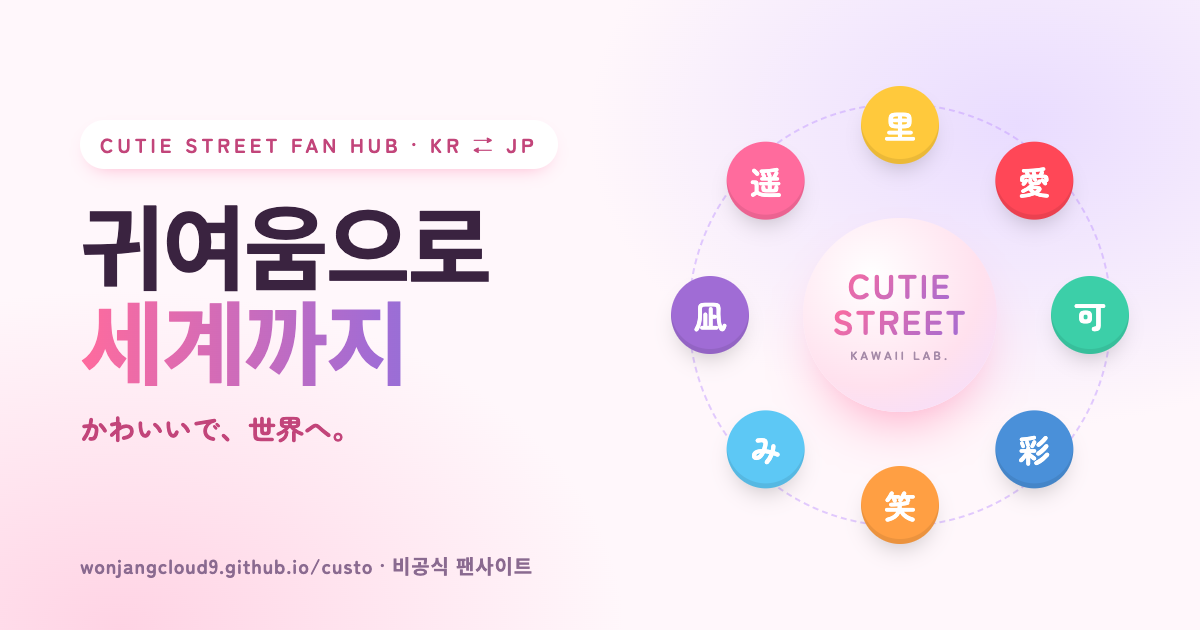
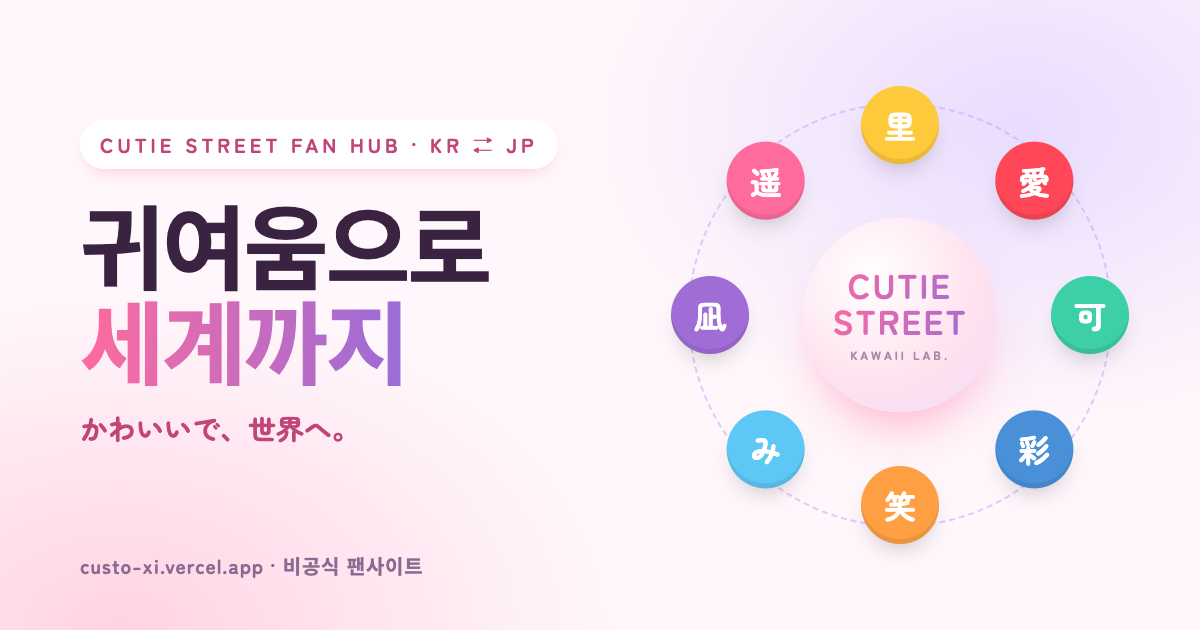
feat(hosting): move to Vercel (custo-xi.vercel.app) — root base with clean URLs, robots.txt with the sitemap, share card on the new address, GitHub Pages reduced to a page that forwards old /custo/ links
- config.ts: single mode; address from the Vercel project domain
- gh-pages-redirect/: index + 404 keep path, query and hash; sw.js retires the old offline worker
- deploy.yml now only republishes that folder
- README, loop scripts and preview.sh use the root base

Changed region(s): [[0.0617, 0.8746, 0.4625, 0.9349]]

diff --git a/docs/.vitepress/config.ts b/docs/.vitepress/config.ts
@@ -4,14 +4,11 @@ import { join } from 'node:path'
 import { members } from './data/members'
 import { songs } from './data/songs'
 
-// Hosting: GitHub Pages serves this repo under /custo/. On Vercel (which sets VERCEL=1 while it builds) the site sits
-// at the domain root, links drop their .html, and Vercel Web Analytics is switched on (theme/index.ts).
-// The address comes from the project's production domain; set SITE_HOST in Vercel to pin another one.
-const ON_VERCEL = !!process.env.VERCEL
-const BASE = ON_VERCEL ? '/' : '/custo/'
-const SITE = ON_VERCEL
-  ? `https://${process.env.SITE_HOST || process.env.VERCEL_PROJECT_PRODUCTION_URL || process.env.VERCEL_URL}/`
-  : 'https://wonjangcloud9.github.io/custo/'
+// Hosting: Vercel, at the domain root (moved from GitHub Pages' /custo/ on 2026-11-22 — gh-pages-redirect/ forwards
+// old links). The address is the project's production domain, which Vercel provides while it builds; SITE_HOST pins
+// another one; the last value is for builds made anywhere else. vercel.json holds the rest (clean URLs, caching).
+const ON_VERCEL = !!process.env.VERCEL // Web Analytics only exists there (theme/index.ts)
+const SITE = `https://${process.env.SITE_HOST || process.env.VERCEL_PROJECT_PRODUCTION_URL || 'custo-xi.vercel.app'}/`
 
 // Structured data (schema.org JSON-LD) — only facts already verified in data/members.ts and the official links.
 const OFFICIAL = 'https://cutiestreet.asobisystem.com/'
@@ -35,15 +32,14 @@ export default defineConfig({
   title: 'Custo',
   titleTemplate: ':title | 큐티스트리트 팬허브 Custo',
   description: 'CUTIE STREET(큐티스트리트) 비공식 팬허브 — 멤버 프로필, 레전드 컷, 공식 영상 아카이브, 스케줄, 정상까지의 여정, 한국 팬 소식.',
-  base: BASE,
-  cleanUrls: ON_VERCEL,
+  cleanUrls: true,
   lang: 'ko',
   appearance: false,
   srcExclude: ['superpowers/**'],
   head: [
-    ['link', { rel: 'icon', type: 'image/svg+xml', href: `${BASE}favicon.svg` }],
-    ['link', { rel: 'manifest', href: `${BASE}manifest.webmanifest` }],
-    ['link', { rel: 'apple-touch-icon', href: `${BASE}apple-touch-icon.png` }],
+    ['link', { rel: 'icon', type: 'image/svg+xml', href: '/favicon.svg' }],
+    ['link', { rel: 'manifest', href: '/manifest.webmanifest' }],
+    ['link', { rel: 'apple-touch-icon', href: '/apple-touch-icon.png' }],
     ['meta', { name: 'apple-mobile-web-app-title', content: 'Custo' }],
     ['link', { rel: 'preconnect', href: 'https://fonts.googleapis.com' }],
     ['link', { rel: 'preconnect', href: 'https://fonts.gstatic.com', crossorigin: '' }],
@@ -100,6 +96,8 @@ export default defineConfig({
     writeFileSync(join(site.outDir, 'sw-precache.json'), JSON.stringify([...want].map((f) => `assets/chunks/${f}`)))
     const sw = join(site.outDir, 'sw.js')
     writeFileSync(sw, `// build ${Date.now().toString(36)}\n` + readFileSync(sw, 'utf8'))
+    // search engines: everything may be crawled; point them at the sitemap of whichever address this build is for
+    writeFileSync(join(site.outDir, 'robots.txt'), `User-agent: *\nAllow: /\n\nSitemap: ${SITE}sitemap.xml\n`)
   },
   // search engines: each page's <title>/<meta description> names the group the way Korean and Japanese fans search for it
   // (큐티스트리트 · CUTIE STREET · キューティーストリート), and member pages get their own profile title + description

diff --git a/gh-pages-redirect/404.html b/gh-pages-redirect/404.html
@@ -1,0 +1,31 @@
+<!doctype html>
+<html lang="ko">
+<head>
+<meta charset="utf-8">
+<meta name="viewport" content="width=device-width,initial-scale=1">
+<title>Custo · 큐티스트리트 팬허브 — 주소가 바뀌었어요</title>
+<link rel="canonical" href="https://custo-xi.vercel.app/">
+<script>
+  // The site moved to Vercel. Old links keep working: /custo/schedule/ → https://custo-xi.vercel.app/schedule/
+  var NEW = 'https://custo-xi.vercel.app/'
+  var path = location.pathname.replace(/^\/custo\/?/, '').replace(/\.html$/, '').replace(/(^|\/)index$/, '$1')
+  location.replace(NEW + path + location.search + location.hash)
+</script>
+<meta http-equiv="refresh" content="2; url=https://custo-xi.vercel.app/">
+<style>
+  body { margin: 0; min-height: 100vh; display: grid; place-items: center; font-family: system-ui, sans-serif; color: #2a1030; word-break: keep-all;
+    background: linear-gradient(160deg, #fff8f0, #fff0f6 40%, #f8f0ff); }
+  main { max-width: 420px; padding: 32px 24px; text-align: center; }
+  h1 { font-size: 22px; margin: 0 0 8px; }
+  p { color: #5a4060; line-height: 1.6; margin: 0 0 20px; }
+  a { display: inline-block; padding: 11px 20px; border-radius: 999px; background: #3a2340; color: #fff; font-weight: 800; text-decoration: none; }
+</style>
+</head>
+<body>
+<main>
+  <h1>주소가 바뀌었어요</h1>
+  <p>Custo · 큐티스트리트 팬허브가 새 주소로 이사했어요. 잠시 후 자동으로 이동합니다.</p>
+  <a href="https://custo-xi.vercel.app/">custo-xi.vercel.app 으로 이동</a>
+</main>
+</body>
+</html>

diff --git a/gh-pages-redirect/index.html b/gh-pages-redirect/index.html
@@ -1,0 +1,31 @@
+<!doctype html>
+<html lang="ko">
+<head>
+<meta charset="utf-8">
+<meta name="viewport" content="width=device-width,initial-scale=1">
+<title>Custo · 큐티스트리트 팬허브 — 주소가 바뀌었어요</title>
+<link rel="canonical" href="https://custo-xi.vercel.app/">
+<script>
+  // The site moved to Vercel. Old links keep working: /custo/schedule/ → https://custo-xi.vercel.app/schedule/
+  var NEW = 'https://custo-xi.vercel.app/'
+  var path = location.pathname.replace(/^\/custo\/?/, '').replace(/\.html$/, '').replace(/(^|\/)index$/, '$1')
+  location.replace(NEW + path + location.search + location.hash)
+</script>
+<meta http-equiv="refresh" content="2; url=https://custo-xi.vercel.app/">
+<style>
+  body { margin: 0; min-height: 100vh; display: grid; place-items: center; font-family: system-ui, sans-serif; color: #2a1030; word-break: keep-all;
+    background: linear-gradient(160deg, #fff8f0, #fff0f6 40%, #f8f0ff); }
+  main { max-width: 420px; padding: 32px 24px; text-align: center; }
+  h1 { font-size: 22px; margin: 0 0 8px; }
+  p { color: #5a4060; line-height: 1.6; margin: 0 0 20px; }
+  a { display: inline-block; padding: 11px 20px; border-radius: 999px; background: #3a2340; color: #fff; font-weight: 800; text-decoration: none; }
+</style>
+</head>
+<body>
+<main>
+  <h1>주소가 바뀌었어요</h1>
+  <p>Custo · 큐티스트리트 팬허브가 새 주소로 이사했어요. 잠시 후 자동으로 이동합니다.</p>
+  <a href="https://custo-xi.vercel.app/">custo-xi.vercel.app 으로 이동</a>
+</main>
+</body>
+</html>

diff --git a/docs/public/sw.js b/docs/public/sw.js
@@ -6,7 +6,7 @@
 // To retire it: replace this file with one that calls self.registration.unregister() and clears caches.
 const V = 'v1'
 const PAGES = 'cs-pages-v2', ASSETS = `cs-assets-${V}`, FONTS = `cs-fonts-${V}` // pages v2: keys without the trailing slash (#235)
-const BASE = new URL('./', self.location).pathname // '/custo/'
+const BASE = new URL('./', self.location).pathname // '/'
 const PRECACHE = ['', 'live-guide/', 'schedule/', 'cutie-land/', 'members/'].map((p) => BASE + p)
 const LABELS = { '': '홈', 'live-guide/': '라이브 가이드', 'schedule/': '스케줄', 'cutie-land/': 'CUTIE LAND', 'members/': '멤버', 'kohaku/': '紅白', 'korea/': '한국 공연', 'videos/': '영상', 'start/': '입문 가이드', 'appearances/': '출연 아카이브', 'discography/': '디스코그래피', 'news/': '뉴스', 'about': '소개' }
 

diff --git a/loop/contrast.js b/loop/contrast.js
@@ -13,7 +13,7 @@ async (page) => {
   const c = await browser.newContext({ viewport: { width: +(page.url().match(/#w=(\d+)/)?.[1] || 1440), height: 900 }, deviceScaleFactor: 1, reducedMotion: 'reduce', timezoneId: 'Asia/Seoul' })
   const p = await c.newPage()
   for (const u of pages) {
-    await p.goto('http://localhost:4173/custo/' + u, { waitUntil: 'networkidle' })
+    await p.goto('http://localhost:4173/' + u, { waitUntil: 'networkidle' })
     await p.waitForTimeout(900)
     const cands = await p.evaluate(() => {
       const toRgb = (s) => { const n = s.match(/[\d.]+/g)?.map(Number); if (!n) return null; return s.startsWith('color(') ? { c: n.slice(0, 3).map((x) => x * 255), a: n[3] ?? 1 } : { c: n.slice(0, 3), a: n.length > 3 ? n[3] : 1 } }

diff --git a/loop/audit.js b/loop/audit.js
@@ -22,7 +22,7 @@ async (page) => {
     p.on('pageerror', (e) => errs.push(`${w} ${cur} PE ` + String(e).slice(0, 120)))
     for (const u of pages) {
       cur = u || 'home'
-      await p.goto('http://localhost:4173/custo/' + u, { waitUntil: 'networkidle' }).catch(() => {})
+      await p.goto('http://localhost:4173/' + u, { waitUntil: 'networkidle' }).catch(() => {})
       await p.waitForTimeout(500)
       await p.evaluate(async () => { document.documentElement.style.scrollBehavior = 'auto'; for (let y = 0; y < document.documentElement.scrollHeight; y += 700) { scrollTo(0, y); await new Promise((r) => setTimeout(r, 60)) } scrollTo(0, 0) })
       await p.waitForTimeout(300)

diff --git a/gh-pages-redirect/sw.js b/gh-pages-redirect/sw.js
@@ -1,0 +1,10 @@
+// The site moved to https://custo-xi.vercel.app. This replaces the old offline worker that browsers may still have
+// for /custo/: it drops the copies that worker saved, removes itself, and reloads open tabs so they follow the move.
+self.addEventListener('install', () => self.skipWaiting())
+self.addEventListener('activate', (event) => {
+  event.waitUntil((async () => {
+    for (const k of await caches.keys()) if (k.startsWith('cs-')) await caches.delete(k)
+    await self.registration.unregister()
+    for (const c of await self.clients.matchAll({ type: 'window' })) c.navigate(c.url)
+  })())
+})

diff --git a/loop/a11y.js b/loop/a11y.js
@@ -13,7 +13,7 @@ async (page) => {
     await c.clock.install({ time: new Date('2026-11-26T19:20:00+09:00') })
     const p = await c.newPage()
     for (const u of pages) {
-      await p.goto('http://localhost:4173/custo/' + u, { waitUntil: 'networkidle' })
+      await p.goto('http://localhost:4173/' + u, { waitUntil: 'networkidle' })
       await p.waitForTimeout(500)
       const r = await p.evaluate(() => {
         const vis = (el) => { const s = getComputedStyle(el); return s.display !== 'none' && s.visibility !== 'hidden' && el.getClientRects().length > 0 }

diff --git a/loop/headings.js b/loop/headings.js
@@ -11,7 +11,7 @@ async (page) => {
   const p = await c.newPage()
   const out = {}
   for (const u of pages) {
-    await p.goto('http://localhost:4173/custo/' + u, { waitUntil: 'networkidle' }).catch(() => {})
+    await p.goto('http://localhost:4173/' + u, { waitUntil: 'networkidle' }).catch(() => {})
     await p.waitForTimeout(600)
     const r = await p.evaluate(() => {
       const hs = [...document.querySelectorAll('.VPContent h1, .VPContent h2, .VPContent h3, .VPContent h4, .VPContent h5, .VPContent h6, .VPContent [role="heading"]')]

diff --git a/loop/og.html b/loop/og.html
@@ -33,7 +33,7 @@
     <div class="ring"></div>
     <div class="core"><div><b>CUTIE</b><b>STREET</b><small>KAWAII LAB.</small></div></div>
   </div>
-  <div class="url">wonjangcloud9.github.io/custo · 비공식 팬사이트</div>
+  <div class="url">custo-xi.vercel.app · 비공식 팬사이트</div>
   <script>
     const ms = [['里','#FFC93C'],['愛','#FF4757'],['可','#3CCFA8'],['彩','#4A90D9'],['笑','#FF9F43'],['み','#5DC8F5'],['凪','#A06CD5'],['遥','#FF6B9D']];
     const o = document.querySelector('.orbit');

diff --git a/loop/targets.js b/loop/targets.js
@@ -12,7 +12,7 @@ async (page) => {
   const p = await c.newPage()
   const out = {}
   for (const u of pages) {
-    await p.goto('http://localhost:4173/custo/' + u, { waitUntil: 'networkidle' }).catch(() => {})
+    await p.goto('http://localhost:4173/' + u, { waitUntil: 'networkidle' }).catch(() => {})
     await p.waitForTimeout(800)
     const r = await p.evaluate(() => {
       const sel = 'a[href], button, input:not([type=hidden]), select, textarea, summary, [role=button], [tabindex]:not([tabindex="-1"])'

diff --git a/loop/cls.js b/loop/cls.js
@@ -21,7 +21,7 @@ async (page) => {
       }).observe({ type: 'layout-shift', buffered: true })
     })
     for (const u of pages) {
-      await p.goto('http://localhost:4173/custo/' + u, { waitUntil: 'networkidle' }).catch(() => {})
+      await p.goto('http://localhost:4173/' + u, { waitUntil: 'networkidle' }).catch(() => {})
       await p.waitForTimeout(2500)
       const ls = await p.evaluate(() => window.__ls)
       const total = ls.reduce((a, e) => a + e.v, 0)
